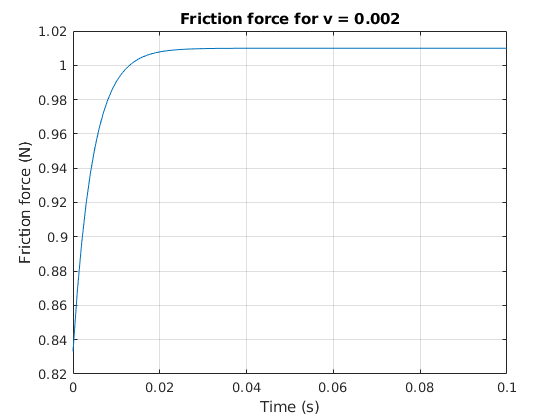
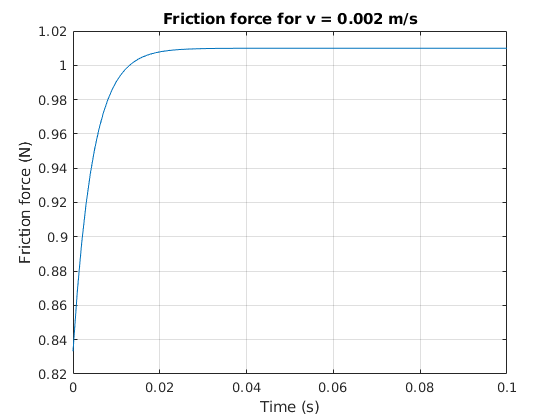
We can now reporodue all figures! yay!!

Changed region(s): [[0.2732, 0.031, 0.7589, 0.0619]]

diff --git a/demo1.m b/demo1.m
@@ -3,8 +3,9 @@ clear all;
 close all;
 clc;
 
-disp('The simulatoin does take quite some time, be patient :-)')
-disp('In my Lenovo x230 (i5-3320M, 2.6GHz, 16GB RAM), it takes about 20 seconds')
+disp('The simulation does take quite some time, be patient :-)')
+disp('In my Lenovo x230 (i5-3320M, 2.6GHz, 16GB RAM), it takes about 30 seconds')
+disp ('I use MATLAB R2018b')
 
 % Convention:
 % F -> friction force by the LuGre method
@@ -39,8 +40,8 @@ ylabel('Friction force (N)')
 title('Friction force at steady state condition')
 
 %% Zoom into certain velocity to see its transient behaviour 
-%  This is not shown in the paper. We here want ti demonstrate that the 
-%  friction has a transient behaviour
+%  This is not shown in the paper. We here want to demonstrate that the 
+%  LuGre friction model does have a transient behaviour.
 
 clear F v;
 
@@ -60,13 +61,13 @@ plot(t, F);
 grid
 xlabel('Time (s)')
 ylabel('Friction force (N)')
-title('Friction force for v = 0.002')
+title('Friction force for v = 0.002 m/s')
 xlim([0 0.1]);
 
 %% Apply sinusoidal velocity and measure the friction force (Fig. 3 of the paper)
 % The input to the friction model was the velocity which was changed
 % sinusoidally around an equilibrium. The resulting friction force is given 
-% as a function of velocity 
+% as a function of velocity .
 
 figure
 hold on
@@ -104,7 +105,7 @@ legend('1 rad/s', '10 rad/s', '25 rad/s')
 % applied force was slowly ramped up to 1.425 N which is 95 percents of Fs. 
 % The force was then kept constant for a while and later ramped down to the 
 % value -1.425 N, where it was kept constant and then ramped up to 1.425 N 
-% again
+% again.
 
 ts = 1e-3;
 clear F v
@@ -123,19 +124,17 @@ u = [u1 u2 u3 u4 u5 u6];
 
 F = 0;
 z = 0;
-v_0 = 0;
 x_0 = 0;
-v = v_0;
+v = 0;
 
 for i = 1:length(u)
     [F(i), z] = lugref(z, v, Fc, Fs, vs, sigma_0, sigma_1, sigma_2, ts);
     
     a = (u(i)-F(i)) / M;
-    v = v_0 + a * ts;
+    v = v + a * ts;
     x(i) = x_0 + v*ts;
     
     x_0 = x(i);
-    v_0 = v;
 end
 
 figure
@@ -150,7 +149,7 @@ title('Presliding displacement')
 % A unit mass is attached to a spring with stiffness k = 2 N/m. The end of
 % the spring is pulled with constant velocity, i.e., dy/dt = 0.1 m/s. 
 
-clear F v u;
+clear F v u u1 u2 u3 u4 u5 u6;
 
 k = 2;
 
@@ -162,20 +161,18 @@ y = generate_ramp_signal(0, time_span*0.1, time_span, ts);
 x = 0;
 
 z = 0;
-v_0 = 0;
 x_0 = 0;
-v = v_0;
+v = 0;
 
 for i = 1:length(y)  
     [F(i), z] = lugref(z, v, Fc, Fs, vs, sigma_0, sigma_1, sigma_2, ts);
     u_spring = k*(y(i) - x(i));
     
     a = (u_spring - F(i)) / M;
-    v = v_0 + a * ts;
+    v = v + a * ts;
     x(i+1) = x_0 + v * ts;
     
     x_0 = x(i+1);
-    v_0 = v;
 end
 
 % compute the speed of the unit-mass
@@ -188,7 +185,7 @@ title('Simulation of stick-slip motion')
 hold on 
 plot(t,x(2:end),'b')
 plot(t,y,'r')
-legend('x', 'y', 'Location','best')
+legend('$x$', '$y$', 'Location','best','interpreter','latex')
 xlabel('Time (s)')
 ylabel('Position (m)')
 
@@ -202,7 +199,7 @@ ylim([0 1.5])
 
 yyaxis right
 plot(t,x_dot(2:end));
-ylabel('Velocity (m/s)')
+ylabel('$\frac{dx}{dt}$ (m/s)', 'interpreter','latex')
 ylim([0 1.5])
 
 xlabel('Time (s)')
@@ -231,25 +228,23 @@ F_rate = [1 2 3 4 5 10 20 30 40 45 50];
 
 for j = 1 : length(F_rate)
     
-    clear F v x
+    clear F v x x_dot
 
     u = generate_ramp_signal(0, F_rate(j)*time_span, time_span, ts);
 
     F = 0;
     z = 0;
-    v_0 = 0;
     x_0 = 0;
-    v = v_0;
+    v = 0;
 
     for i = 1:length(u)
         [F(i), z] = lugref(z, v, Fc, Fs, vs, sigma_0, sigma_1, sigma_2, ts);
 
         a = (u(i)-F(i)) / M;
-        v = v_0 + a * ts;
+        v = v + a * ts;
         x(i) = x_0 + v*ts;
 
         x_0 = x(i);
-        v_0 = v;
 
         if i > 1 && (F(i)-F(i-1)) < 0
             break;
@@ -264,6 +259,55 @@ plot(F_rate, F_break, 'o')
 ylim([0.9 1.5])
 xlabel('Force rate (N/s)')
 ylabel('Break-away force (N)')
+grid on
+
+%% Limit cycles caused by friction
+%  Also known as hunting phenomenon because of the integral action.
+
+clear F x y u;
+
+ts = 1e-5; % 1e-4 fails, very stiff system, needs a better ODE solver
+time_span = 100;
+t = 0 : ts : time_span;
+
+% PID parameters
+Kv = 6;
+Kp = 3;
+Ki = 4;
+
+% Desired position for the mass, its intial position is x = 0
+xd = 1;
+
+z = 0;
+x_0 = 0;
+v = 0;
+x = x_0;
+
+int_e = 0;
+
+for i = 1:length(t)
+    [F(i), z] = lugref(z, v, Fc, Fs, vs, sigma_0, sigma_1, sigma_2, ts);
+    
+    e = x(i) - xd;
+    int_e = int_e + e * ts; 
+    u = -Kv*v - Kp*e - Ki*int_e; % eq. 11
+    
+    a = (u - F(i)) / M;
+    v = v + a * ts;
+    x(i+1) = x_0 + v * ts;
+    
+    x_0 = x(i+1);
+end
+
+figure
+hold on
+plot(t, x(2:end))
+plot(t, ones(1,length(t)).*xd);
+xlabel('Time (s)')
+ylabel('Position (m)')
+legend('$x$', '$x_{d}$', 'Interpreter','Latex')
+
+clear all;
 
 %% ------------------------------------------------------------------------
 toc
